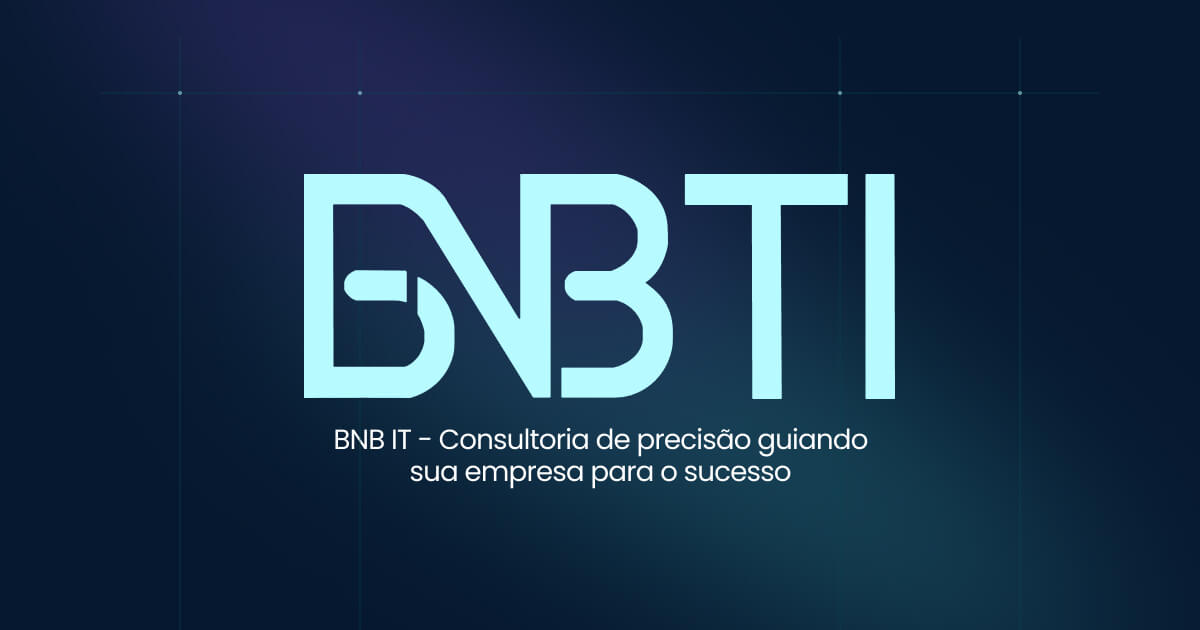
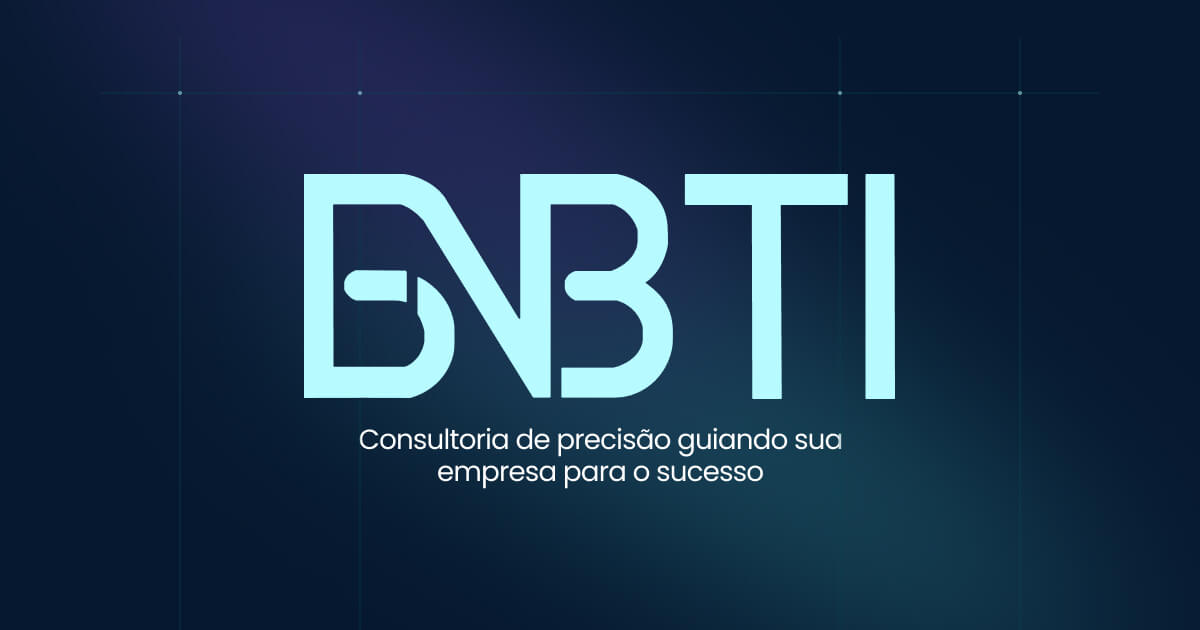
feat: create text styled components

Changed region(s): [[0.2775, 0.6635, 0.74, 0.7841]]

diff --git a/src/sections/Services/index.tsx b/src/sections/Services/index.tsx
@@ -1,11 +1,14 @@
 "use client";
 
 import { ServicesContainer } from "./styles";
+import { Subtitle } from "@/styles/Text/Subtitle";
+import { Paragraph } from "@/styles/Text/Paragraph";
+
 import ButtonArrow from "@/components/ButtonArrow";
+import { solutions } from "./solutions";
 
 import useLanguageSwitch from "@/hooks/useLanguageSwitch";
 import { title, paragraph, button } from "./text";
-import { solutions } from "./solutions";
 
 function Services() {
   const { language } = useLanguageSwitch();
@@ -13,8 +16,8 @@ function Services() {
   return (
     <ServicesContainer id="services">
       <div className="margin-space">
-        <h2>{title[language]}</h2>
-        <p>{paragraph[language]}</p>
+        <Subtitle>{title[language]}</Subtitle>
+        <Paragraph>{paragraph[language]}</Paragraph>
         <ButtonArrow href="#">{button[language]}</ButtonArrow>
       </div>
 
@@ -24,7 +27,7 @@ function Services() {
             <li key={id}>
               {icon}
               <h3>{name[language]}</h3>
-              <p>{description[language]}</p>
+              <Paragraph>{description[language]}</Paragraph>
               <div>
                 {labels.map((label, index) => (
                   <span key={"lb" + index}>{label[language]}</span>

diff --git a/src/sections/Hero/index.tsx b/src/sections/Hero/index.tsx
@@ -3,7 +3,8 @@
 import Image from "next/image";
 import parse from "html-react-parser";
 
-import { FirstText, HeroContainer, SecondText } from "./styles";
+import { HeroContainer, FirstText, SecondText } from "./styles";
+import { Title, TitleLabel, TitleParagraph } from "@/styles/Text/Title";
 
 import CoordinatesTop from "@/components/CordinatesTop";
 import ButtonFilled from "@/components/ButtonFilled";
@@ -27,7 +28,7 @@ function Hero() {
       <CoordinatesTop />
       <FirstText>
         <h1>{firsTitle[language]}</h1>
-        <p>{parse(firstSubtitle[language])}</p>
+        <TitleParagraph>{parse(firstSubtitle[language])}</TitleParagraph>
         <ButtonFilled href="#">{button[language]}</ButtonFilled>
       </FirstText>
 
@@ -44,9 +45,9 @@ function Hero() {
         </div>
 
         <div>
-          <span>{label[language]}</span>
-          <h2>{secondTitle[language]}</h2>
-          <p>{parse(secondSubtitle[language])}</p>
+          <TitleLabel>{label[language]}</TitleLabel>
+          <Title>{secondTitle[language]}</Title>
+          <TitleParagraph>{parse(secondSubtitle[language])}</TitleParagraph>
         </div>
       </SecondText>
     </HeroContainer>

diff --git a/src/sections/Contact/index.tsx b/src/sections/Contact/index.tsx
@@ -3,6 +3,9 @@
 import parse from "html-react-parser";
 import { ContactContainer } from "./styles";
 
+import { Title, TitleLabel, TitleParagraph } from "@/styles/Text/Title";
+import { Paragraph } from "@/styles/Text/Paragraph";
+
 import CoordinatesBottom from "@/components/CordinatesBottom";
 import Form from "@/components/Form";
 import ButtonOutlined from "@/components/ButtonOutlined";
@@ -24,15 +27,15 @@ function Contact() {
     <ContactContainer className="margin-space">
       <CoordinatesBottom />
       <div>
-        <span>{label[language]}</span>
-        <h2>{firstTitle[language]}</h2>
-        <p>{parse(subtitle[language])}</p>
+        <TitleLabel $secondary>{label[language]}</TitleLabel>
+        <Title>{firstTitle[language]}</Title>
+        <TitleParagraph>{parse(subtitle[language])}</TitleParagraph>
       </div>
 
       <div id="contact">
         <div>
           <h3>{secondTitle[language]}</h3>
-          <p>{paragraph[language]}</p>
+          <Paragraph>{paragraph[language]}</Paragraph>
           <ButtonOutlined href="#">{button[language]}</ButtonOutlined>
         </div>
         <Form />

diff --git a/src/sections/Contact/styles.ts b/src/sections/Contact/styles.ts
@@ -7,37 +7,6 @@ export const ContactContainer = styled.section`
     margin-top: 160px;
     display: grid;
     place-items: center;
-
-    span {
-      font-size: var(--medium);
-      color: var(--secondary-light);
-    }
-
-    h2 {
-      font-weight: 700;
-      font-size: var(--xx-large);
-      line-height: 1.15em;
-      letter-spacing: -0.03em;
-      text-align: center;
-      color: var(--white);
-      max-width: 30ch;
-      margin-top: 8px;
-    }
-
-    p {
-      font-size: 1.125rem;
-      line-height: 1.5em;
-      text-align: center;
-      color: var(--gray-mid);
-      margin-top: 16px;
-      max-width: 640px;
-    }
-
-    em {
-      font-style: normal;
-      font-weight: 600;
-      color: var(--primary-light);
-    }
   }
 
   > :nth-child(3) {
@@ -63,9 +32,6 @@ export const ContactContainer = styled.section`
     }
 
     p {
-      font-size: 1.125rem;
-      line-height: 1.5em;
-      color: var(--gray-light);
       max-width: 38ch;
       padding-top: 16px;
       padding-bottom: 36px;

diff --git a/src/styles/Text/Title.ts b/src/styles/Text/Title.ts
@@ -1,0 +1,33 @@
+import styled from "styled-components";
+
+export const TitleLabel = styled.span<{ $secondary?: boolean }>`
+  font-size: var(--medium);
+  color: ${({ $secondary }) =>
+    $secondary ? "var(--secondary-light)" : "var(--primary-light)"};
+`;
+
+export const Title = styled.h2`
+  font-weight: 700;
+  font-size: var(--xx-large);
+  line-height: 1.15em;
+  letter-spacing: -0.03em;
+  text-align: center;
+  color: var(--white);
+  max-width: 30ch;
+  margin-top: 8px;
+`;
+
+export const TitleParagraph = styled.p`
+  font-size: 1.125rem;
+  line-height: 1.5em;
+  text-align: center;
+  color: var(--gray-mid);
+  margin-top: 16px;
+  max-width: 640px;
+
+  em {
+    font-style: normal;
+    font-weight: 600;
+    color: var(--primary-light);
+  }
+`;

diff --git a/src/sections/Hero/styles.ts b/src/sections/Hero/styles.ts
@@ -117,37 +117,6 @@ export const SecondText = styled.div`
     object-fit: cover;
   }
 
-  span {
-    font-size: var(--medium);
-    color: var(--primary-light);
-  }
-
-  h2 {
-    font-weight: 700;
-    font-size: var(--xx-large);
-    line-height: 1.15em;
-    letter-spacing: -0.03em;
-    text-align: center;
-    color: var(--white);
-    max-width: 30ch;
-    margin-top: 8px;
-  }
-
-  p {
-    font-size: 1.125rem;
-    line-height: 1.5em;
-    text-align: center;
-    color: var(--gray-mid);
-    margin-top: 16px;
-    max-width: 640px;
-  }
-
-  em {
-    font-style: normal;
-    font-weight: 600;
-    color: var(--primary-light);
-  }
-
   @media screen and (max-width: 768px) {
     margin-top: 100px;
 

diff --git a/src/sections/Certifications/index.tsx b/src/sections/Certifications/index.tsx
@@ -2,17 +2,18 @@
 
 import Image from "next/image";
 import { CertificationsContainer } from "./styles";
-import certificates from "./certificates";
+import { Subtitle } from "@/styles/Text/Subtitle";
 
+import certificates from "./certificates";
 import useLanguageSwitch from "@/hooks/useLanguageSwitch";
-import { title } from "./text";
+import { subtitle } from "./text";
 
 function Certifications() {
   const { language } = useLanguageSwitch();
 
   return (
     <CertificationsContainer className="margin-space">
-      <h2>{title[language]}</h2>
+      <Subtitle>{subtitle[language]}</Subtitle>
       <ul>
         {certificates.map(({ id, img, alt }) => (
           <li key={id}>

diff --git a/src/sections/Services/styles.ts b/src/sections/Services/styles.ts
@@ -6,16 +6,7 @@ export const ServicesContainer = styled.section`
   overflow: hidden;
 
   > :nth-child(1) {
-    h2 {
-      font-weight: 500;
-      font-size: var(--x-large);
-      color: var(--primary-light);
-    }
-
     p {
-      font-size: 1.125rem;
-      line-height: 1.5em;
-      color: var(--gray-light);
       max-width: 80ch;
       margin-top: 12px;
     }
@@ -84,9 +75,6 @@ export const ServicesContainer = styled.section`
   }
 
   li p {
-    font-size: 1.125rem;
-    line-height: 1.5em;
-    color: var(--gray-light);
     margin-top: 12px;
   }
 

diff --git a/src/sections/Certifications/styles.ts b/src/sections/Certifications/styles.ts
@@ -3,12 +3,6 @@ import styled from "styled-components";
 export const CertificationsContainer = styled.section`
   margin-top: 160px;
 
-  h2 {
-    font-weight: 500;
-    font-size: var(--x-large);
-    color: var(--primary-light);
-  }
-
   ul {
     margin-top: 40px;
     padding-bottom: 20px;
@@ -23,8 +17,8 @@ export const CertificationsContainer = styled.section`
     background-color: var(--gray-dark);
     border: 1px solid var(--border);
     border-radius: 50%;
-    flex: 1;
     aspect-ratio: 1/1;
+    flex: 1;
     position: relative;
   }
 

diff --git a/src/styles/Text/Subtitle.ts b/src/styles/Text/Subtitle.ts
@@ -1,0 +1,7 @@
+import styled from "styled-components";
+
+export const Subtitle = styled.h2`
+  font-weight: 500;
+  font-size: var(--x-large);
+  color: var(--primary-light);
+`;

diff --git a/src/styles/Text/Paragraph.ts b/src/styles/Text/Paragraph.ts
@@ -1,0 +1,7 @@
+import styled from "styled-components";
+
+export const Paragraph = styled.p`
+  font-size: 1.125rem;
+  line-height: 1.5em;
+  color: var(--gray-light);
+`;

diff --git a/src/sections/Certifications/text.ts b/src/sections/Certifications/text.ts
@@ -1,4 +1,4 @@
-export const title = {
+export const subtitle = {
   pt: "Certificações",
   en: "Certifications",
 };
